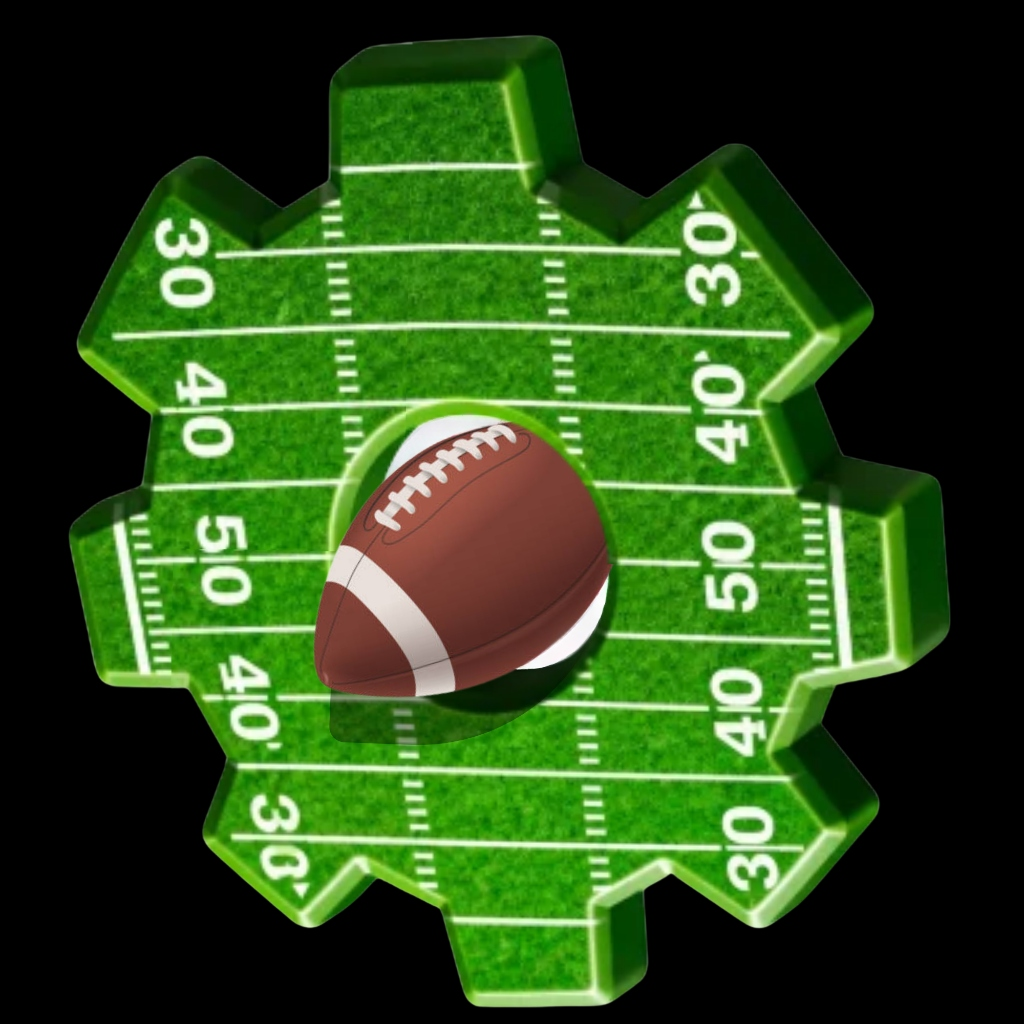
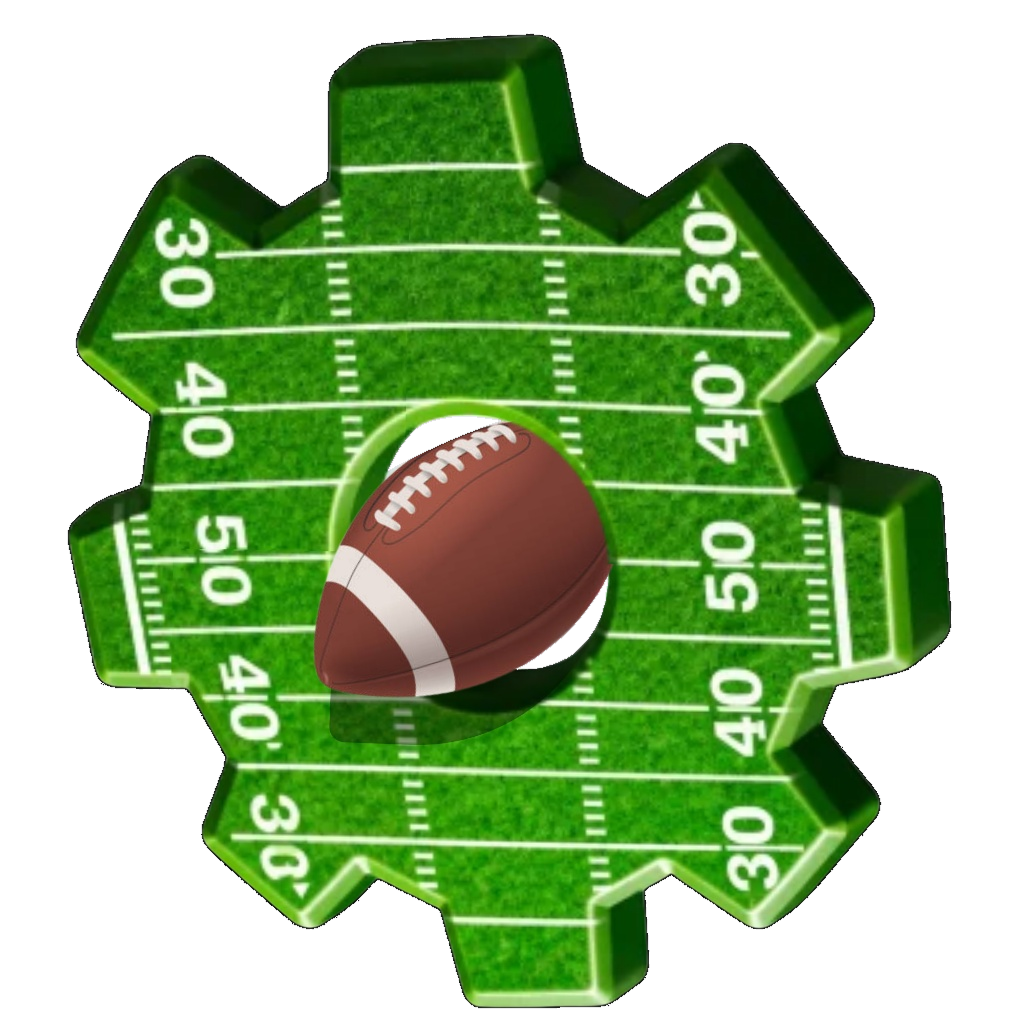
edits

diff --git a/src/lib/brandTokens.ts b/src/lib/brandTokens.ts
@@ -12,8 +12,8 @@
  * visual emblem everywhere without altering the text styling.
  */
 
-export const FLAGOS_LOGO_LIGHT = "/flagos-emblem-light.png";
-export const FLAGOS_LOGO_DARK = "/flagos-emblem-dark.png";
+export const FLAGOS_LOGO_LIGHT = "/flagos-emblem.png";
+export const FLAGOS_LOGO_DARK = "/flagos-emblem.png";
 
 /**
  * Returns the active FlagOS logo file path based on the given theme ("light" | "dark").
